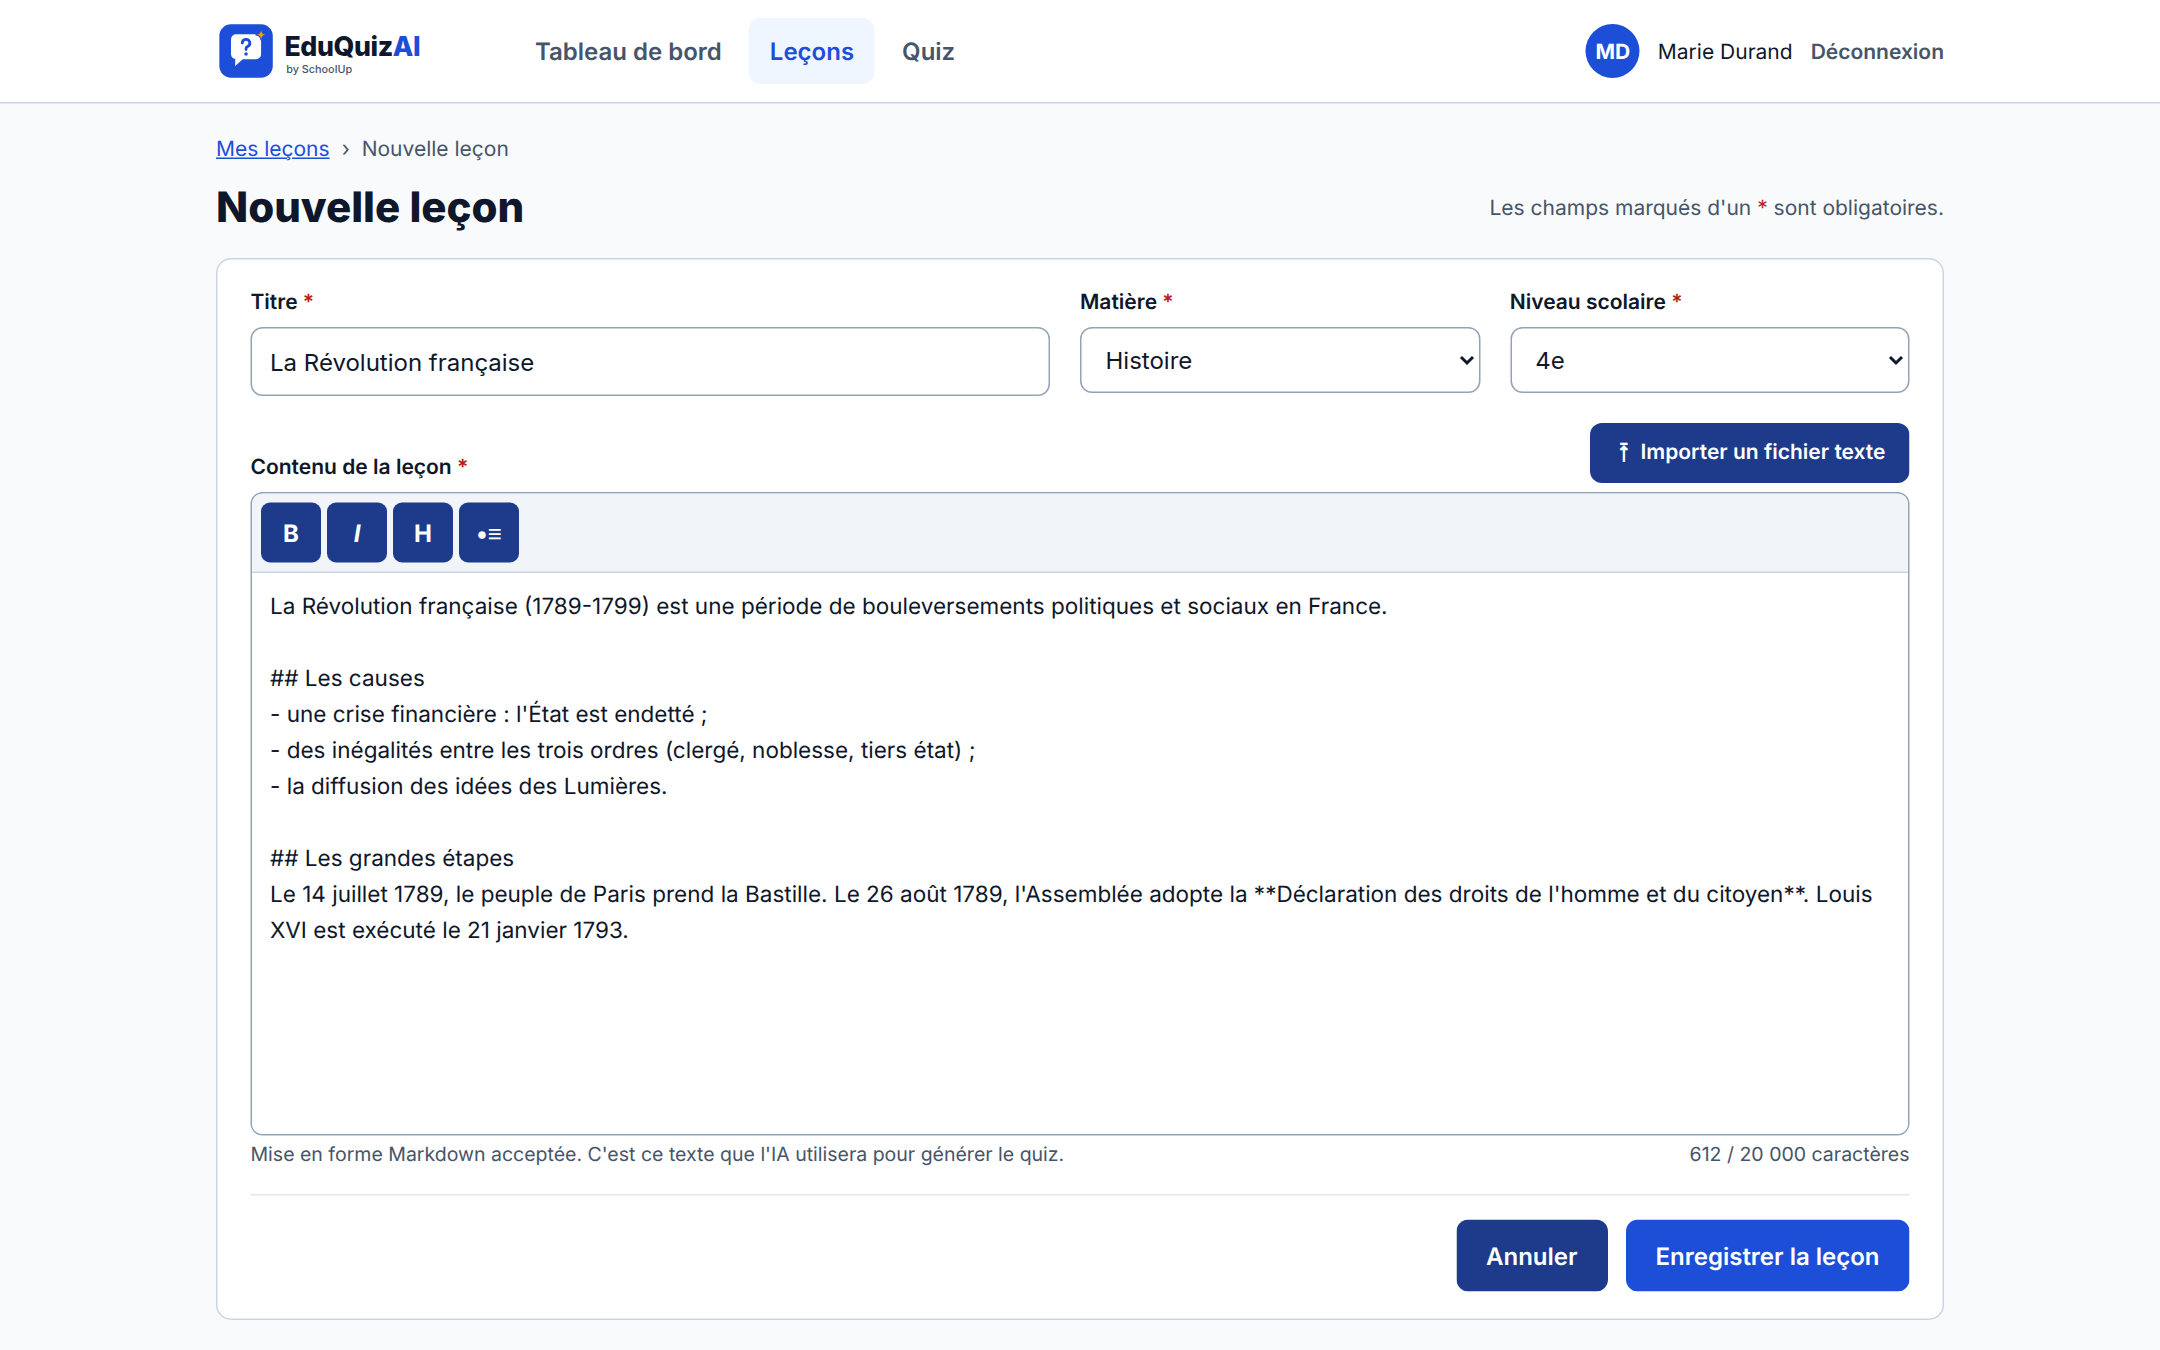
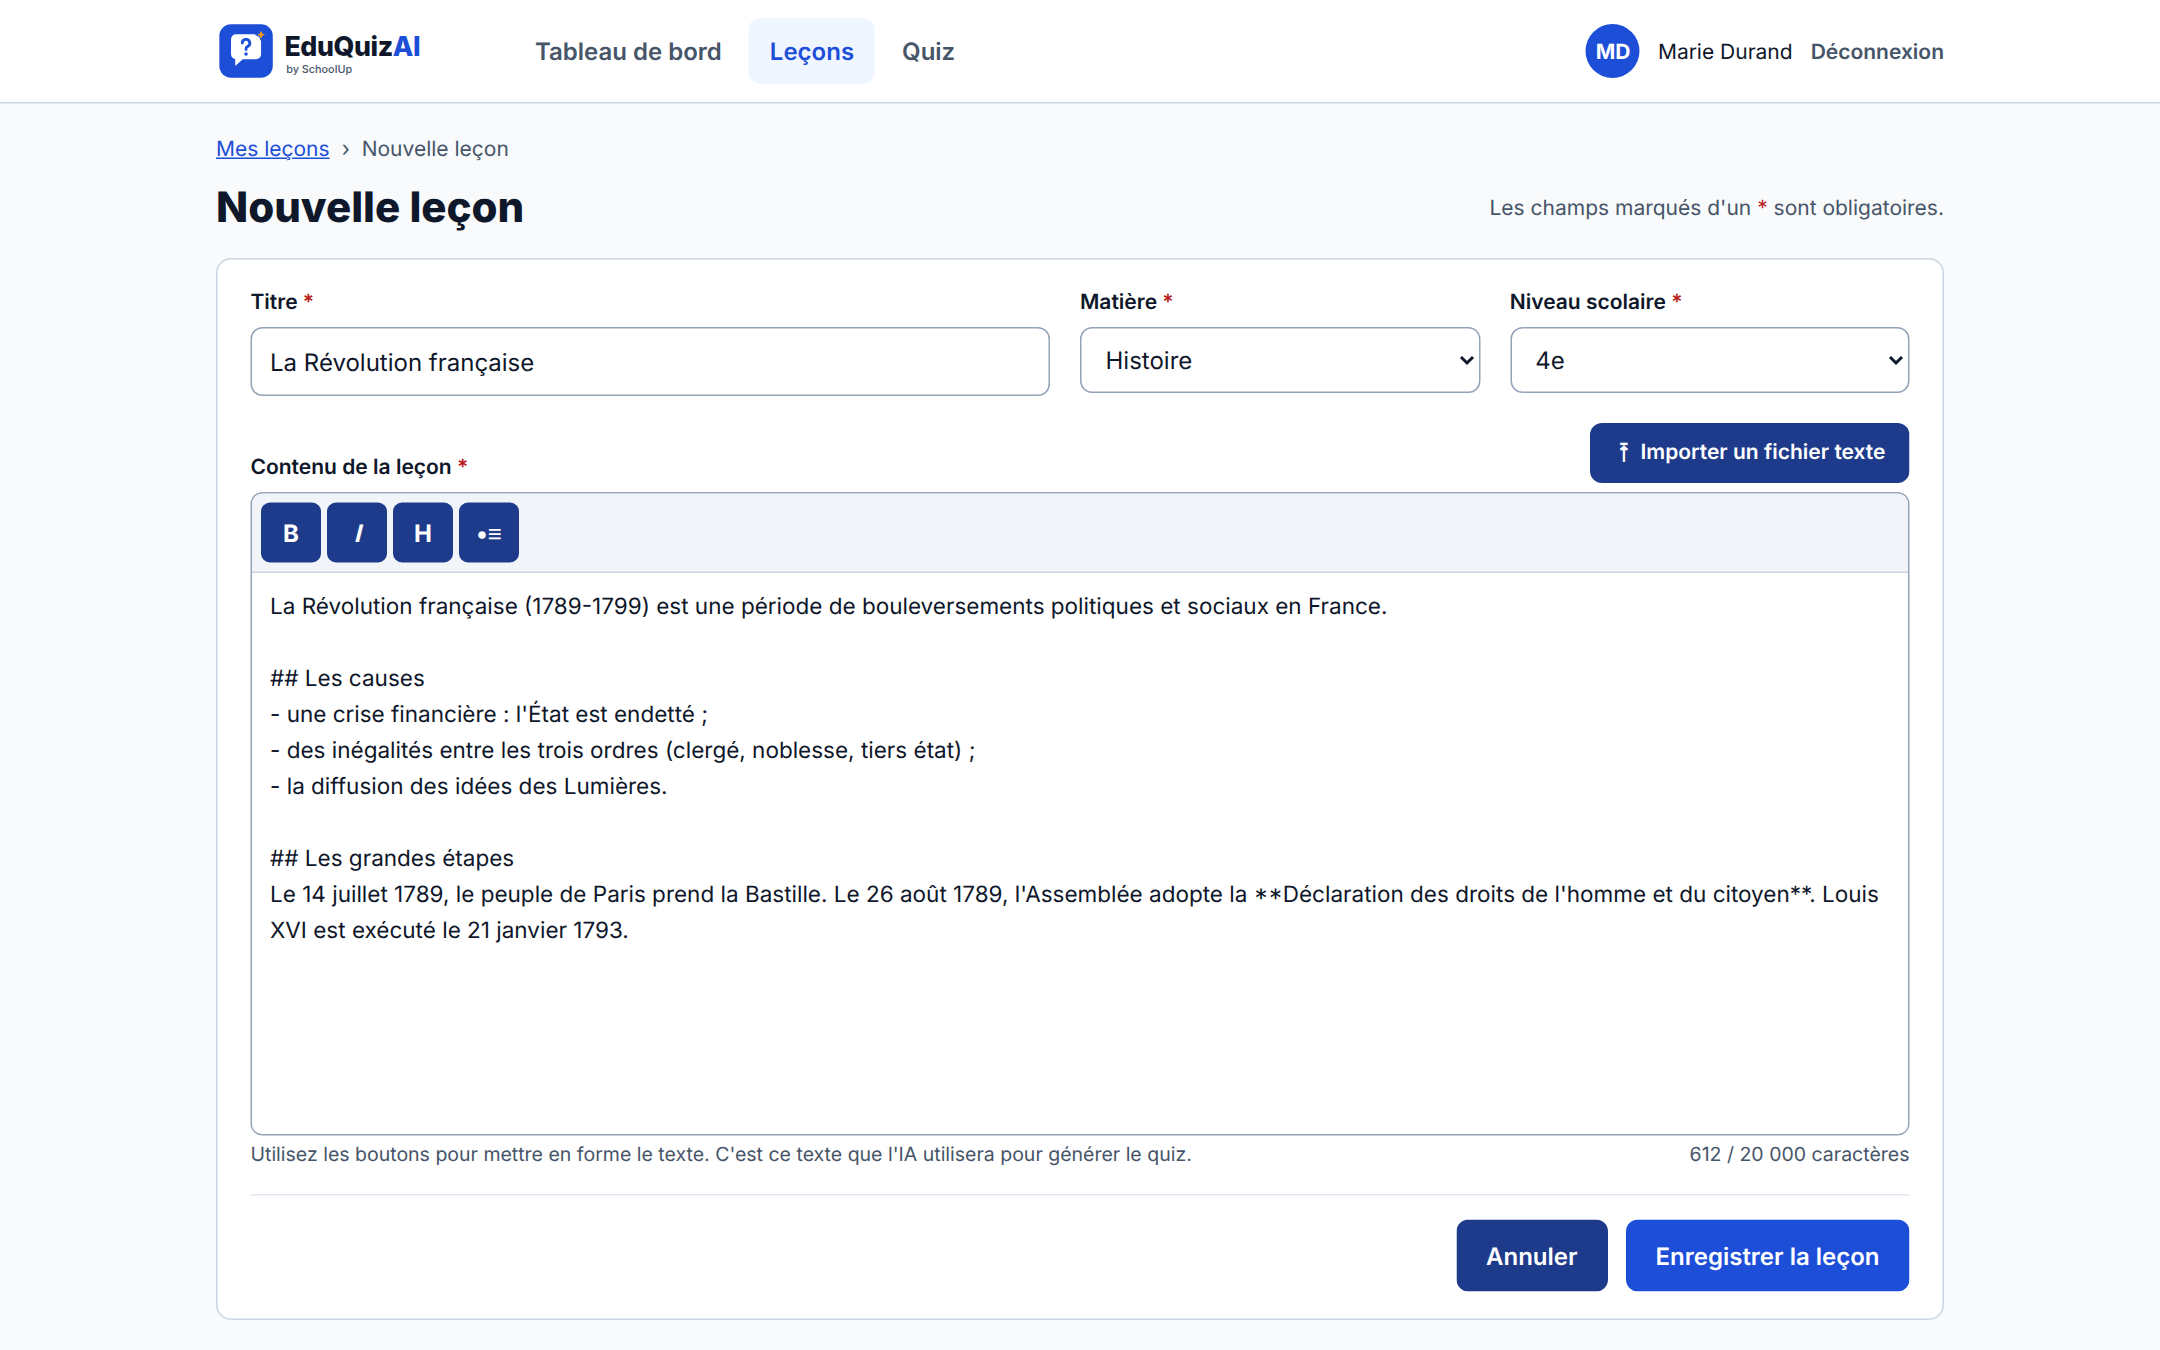
docs(conception): import .docx/.txt et texte d'aide de l'éditeur (maquettes 4, 4b, 4c)

diff --git a/docs/conception/maquettes/04c_lecon_import.html b/docs/conception/maquettes/04c_lecon_import.html
@@ -59,7 +59,7 @@
 ## Les grandes étapes
 Le 14 juillet 1789, le peuple de Paris prend la Bastille. Le 26 août 1789, l'Assemblée adopte la **Déclaration des droits de l'homme et du citoyen**. Louis XVI est exécuté le 21 janvier 1793.</textarea>
         </div>
-        <div class="compteur aide" id="aide-contenu"><span>Mise en forme Markdown acceptée. C'est ce texte que l'IA utilisera pour générer le quiz.</span><span>612 / 20 000 caractères</span></div>
+        <div class="compteur aide" id="aide-contenu"><span>Utilisez les boutons pour mettre en forme le texte. C'est ce texte que l'IA utilisera pour générer le quiz.</span><span>612 / 20 000 caractères</span></div>
       </div>
       <div class="actions-form">
         <a class="btn btn-secondaire" href="03_lecons.html">Annuler</a>
@@ -76,10 +76,10 @@ Le 14 juillet 1789, le peuple de Paris prend la Bastille. Le 26 août 1789, l'As
           <div class="ico" aria-hidden="true"><svg width="26" height="26" viewBox="0 0 24 24" fill="none" stroke="currentColor" stroke-width="2.2" stroke-linecap="round" stroke-linejoin="round"><path d="M21 15v4a2 2 0 0 1-2 2H5a2 2 0 0 1-2-2v-4"/><path d="M17 8l-5-5-5 5"/><path d="M12 3v12"/></svg></div>
           <p><strong>Glissez votre fichier ici</strong> ou</p>
           <label for="fichier" class="btn btn-primaire btn-petit" style="margin-top:10px;display:inline-flex">Choisir un fichier</label>
-          <input id="fichier" name="fichier" type="file" accept=".txt,.md" class="sr" aria-describedby="regles-import">
+          <input id="fichier" name="fichier" type="file" accept=".txt,.docx" class="sr" aria-describedby="regles-import">
         </div>
-        <div class="fichier-choisi" role="status"><span aria-hidden="true">✓</span><span><strong>revolution_francaise.txt</strong> · 4 Ko · prêt à importer</span></div>
-        <ul class="regles" id="regles-import"><li>Formats acceptés : <strong>.txt</strong> et <strong>.md</strong> (texte uniquement)</li><li>Taille maximale : <strong>1 Mo</strong> (20 000 caractères)</li></ul>
+        <div class="fichier-choisi" role="status"><span aria-hidden="true">✓</span><span><strong>revolution_francaise.docx</strong> · 18 Ko · prêt à importer</span></div>
+        <ul class="regles" id="regles-import"><li>Formats acceptés : <strong>.docx</strong> (Word, LibreOffice) et <strong>.txt</strong> ; les images sont ignorées</li><li>Taille maximale : <strong>5 Mo</strong> (20 000 caractères de texte)</li></ul>
         <div class="boutons" style="justify-content:flex-end;margin-top:18px">
           <a class="btn btn-secondaire" href="04_lecon_form.html">Annuler</a>
           <button class="btn btn-primaire" type="submit">Importer le texte</button>

diff --git a/docs/conception/maquettes/04_lecon_form.html b/docs/conception/maquettes/04_lecon_form.html
@@ -59,7 +59,7 @@
 ## Les grandes étapes
 Le 14 juillet 1789, le peuple de Paris prend la Bastille. Le 26 août 1789, l'Assemblée adopte la **Déclaration des droits de l'homme et du citoyen**. Louis XVI est exécuté le 21 janvier 1793.</textarea>
         </div>
-        <div class="compteur aide" id="aide-contenu"><span>Mise en forme Markdown acceptée. C'est ce texte que l'IA utilisera pour générer le quiz.</span><span>612 / 20 000 caractères</span></div>
+        <div class="compteur aide" id="aide-contenu"><span>Utilisez les boutons pour mettre en forme le texte. C'est ce texte que l'IA utilisera pour générer le quiz.</span><span>612 / 20 000 caractères</span></div>
       </div>
       <div class="actions-form">
         <a class="btn btn-secondaire" href="03_lecons.html">Annuler</a>

diff --git a/docs/conception/maquettes/04b_lecon_form_erreur.html b/docs/conception/maquettes/04b_lecon_form_erreur.html
@@ -61,7 +61,7 @@
 ## Les grandes étapes
 Le 14 juillet 1789, le peuple de Paris prend la Bastille. Le 26 août 1789, l'Assemblée adopte la **Déclaration des droits de l'homme et du citoyen**. Louis XVI est exécuté le 21 janvier 1793.</textarea>
         </div>
-        <div class="compteur aide" id="aide-contenu"><span>Mise en forme Markdown acceptée. C'est ce texte que l'IA utilisera pour générer le quiz.</span><span>612 / 20 000 caractères</span></div>
+        <div class="compteur aide" id="aide-contenu"><span>Utilisez les boutons pour mettre en forme le texte. C'est ce texte que l'IA utilisera pour générer le quiz.</span><span>612 / 20 000 caractères</span></div>
       </div>
       <div class="actions-form">
         <a class="btn btn-secondaire" href="03_lecons.html">Annuler</a>
